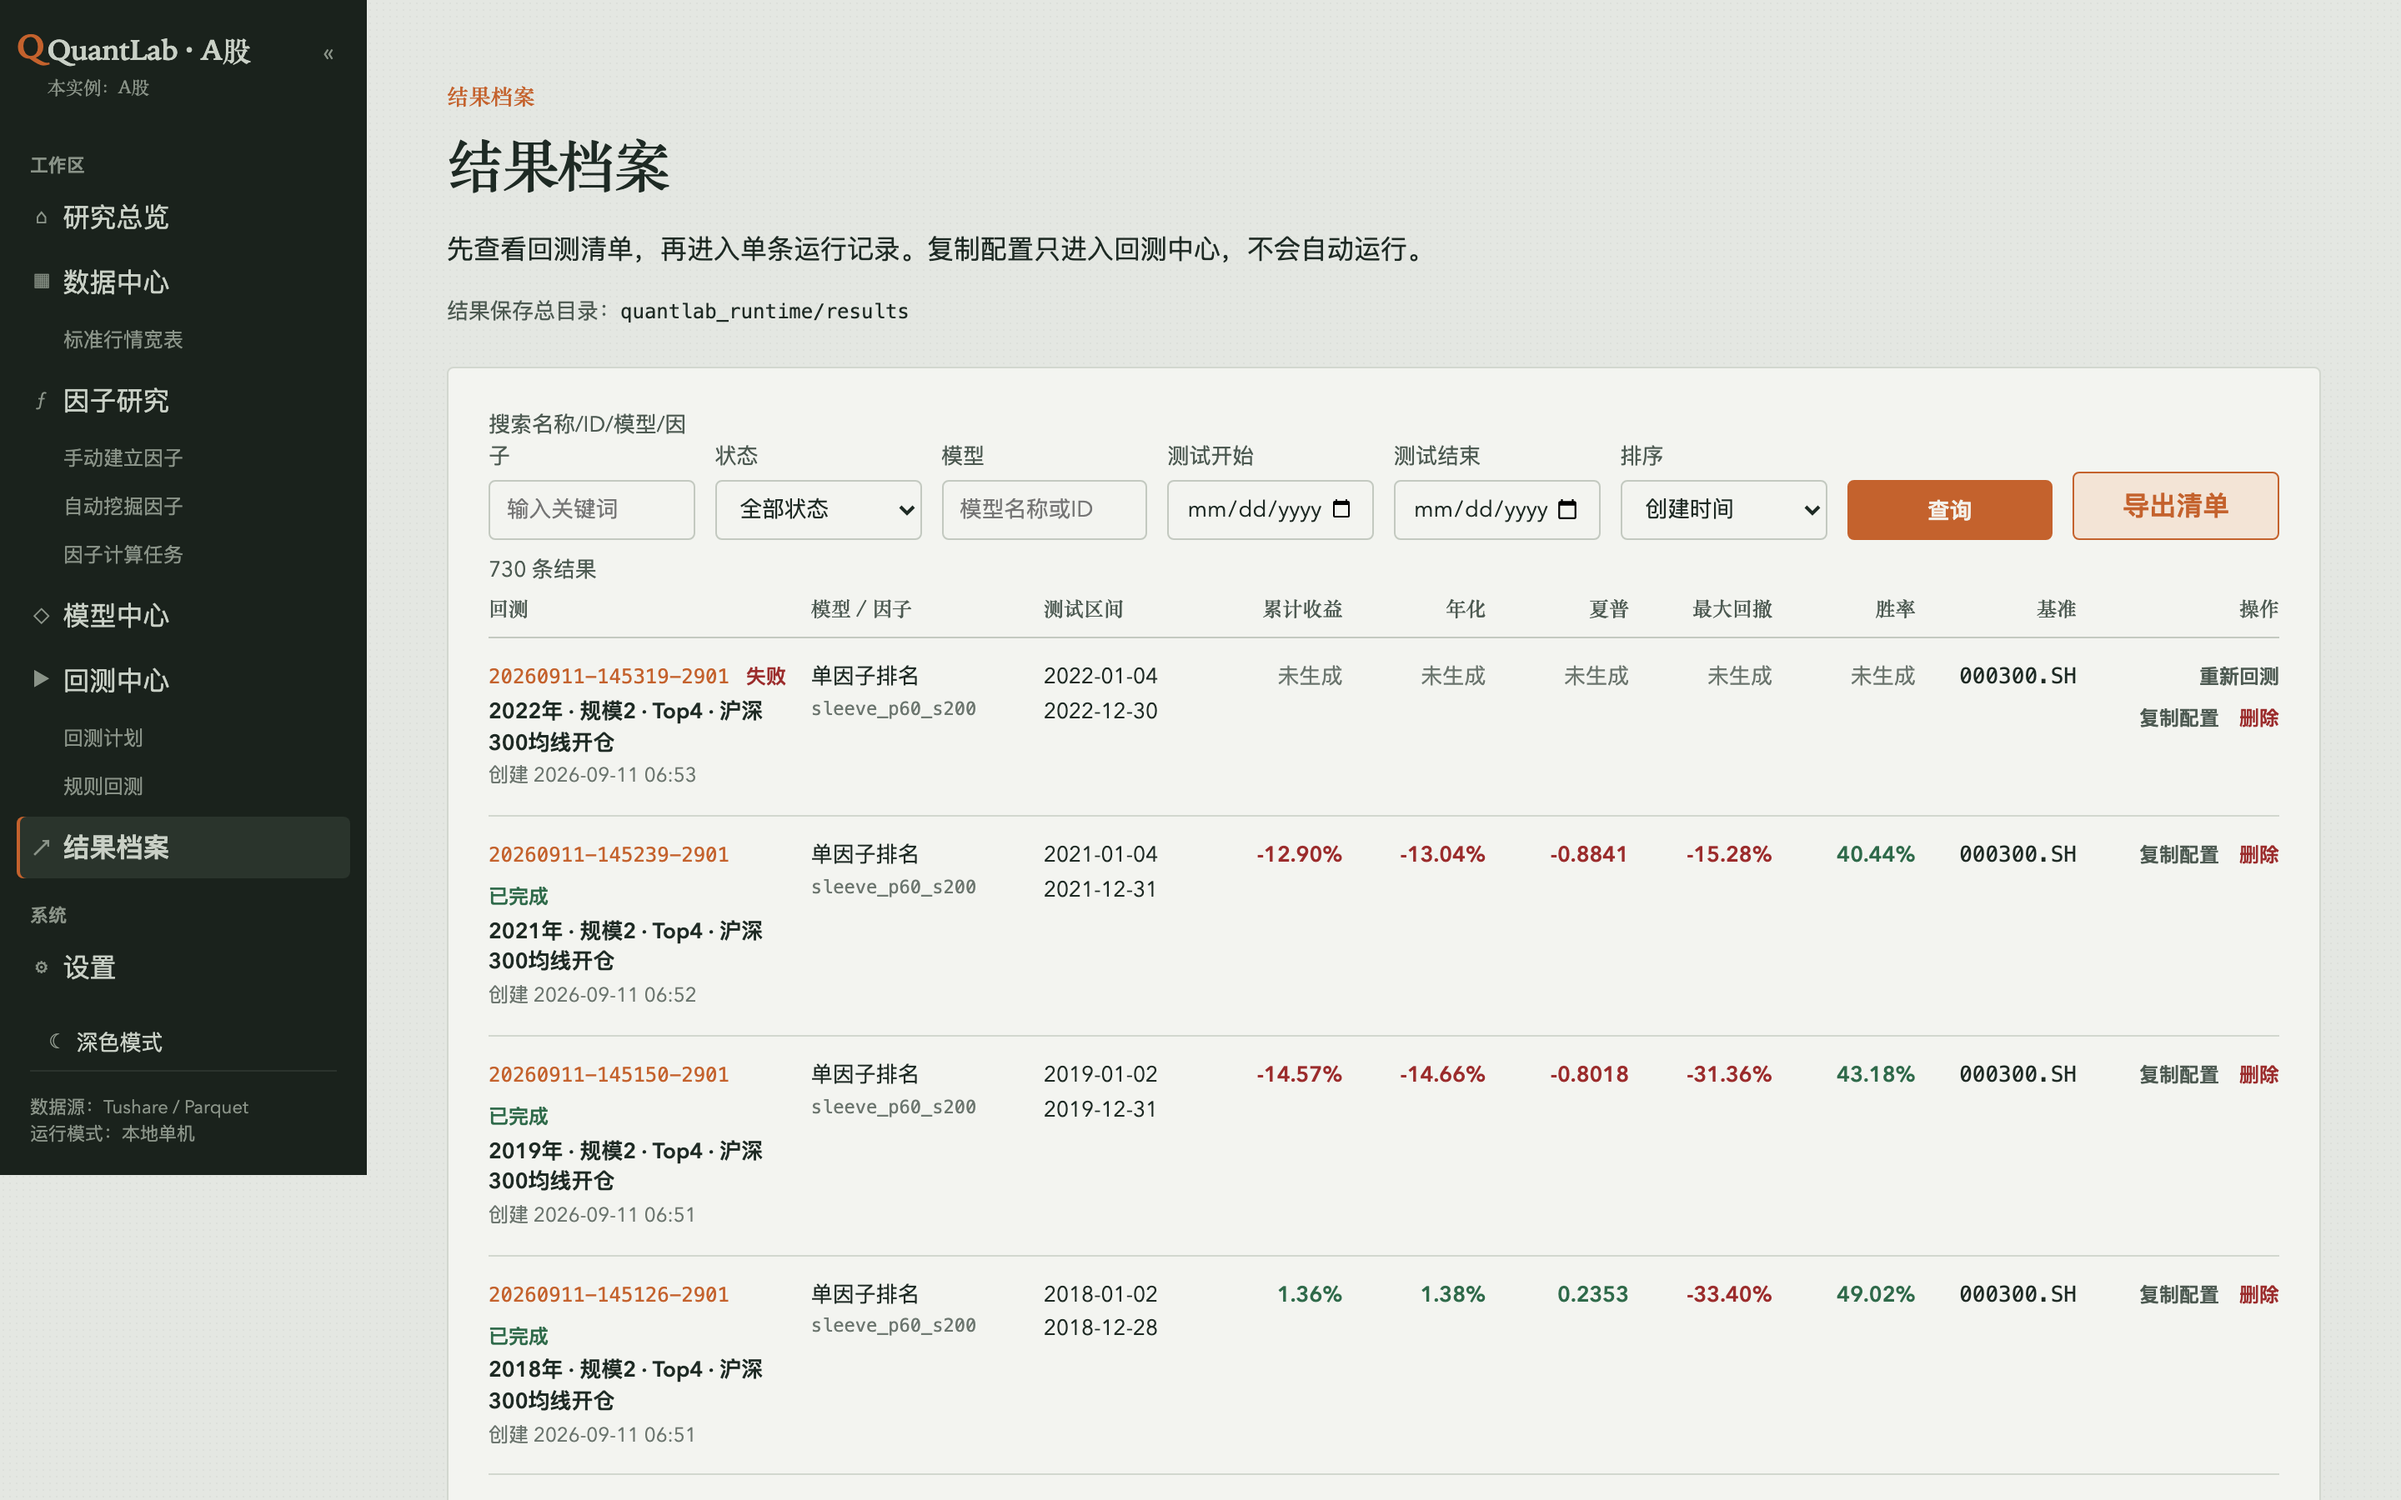
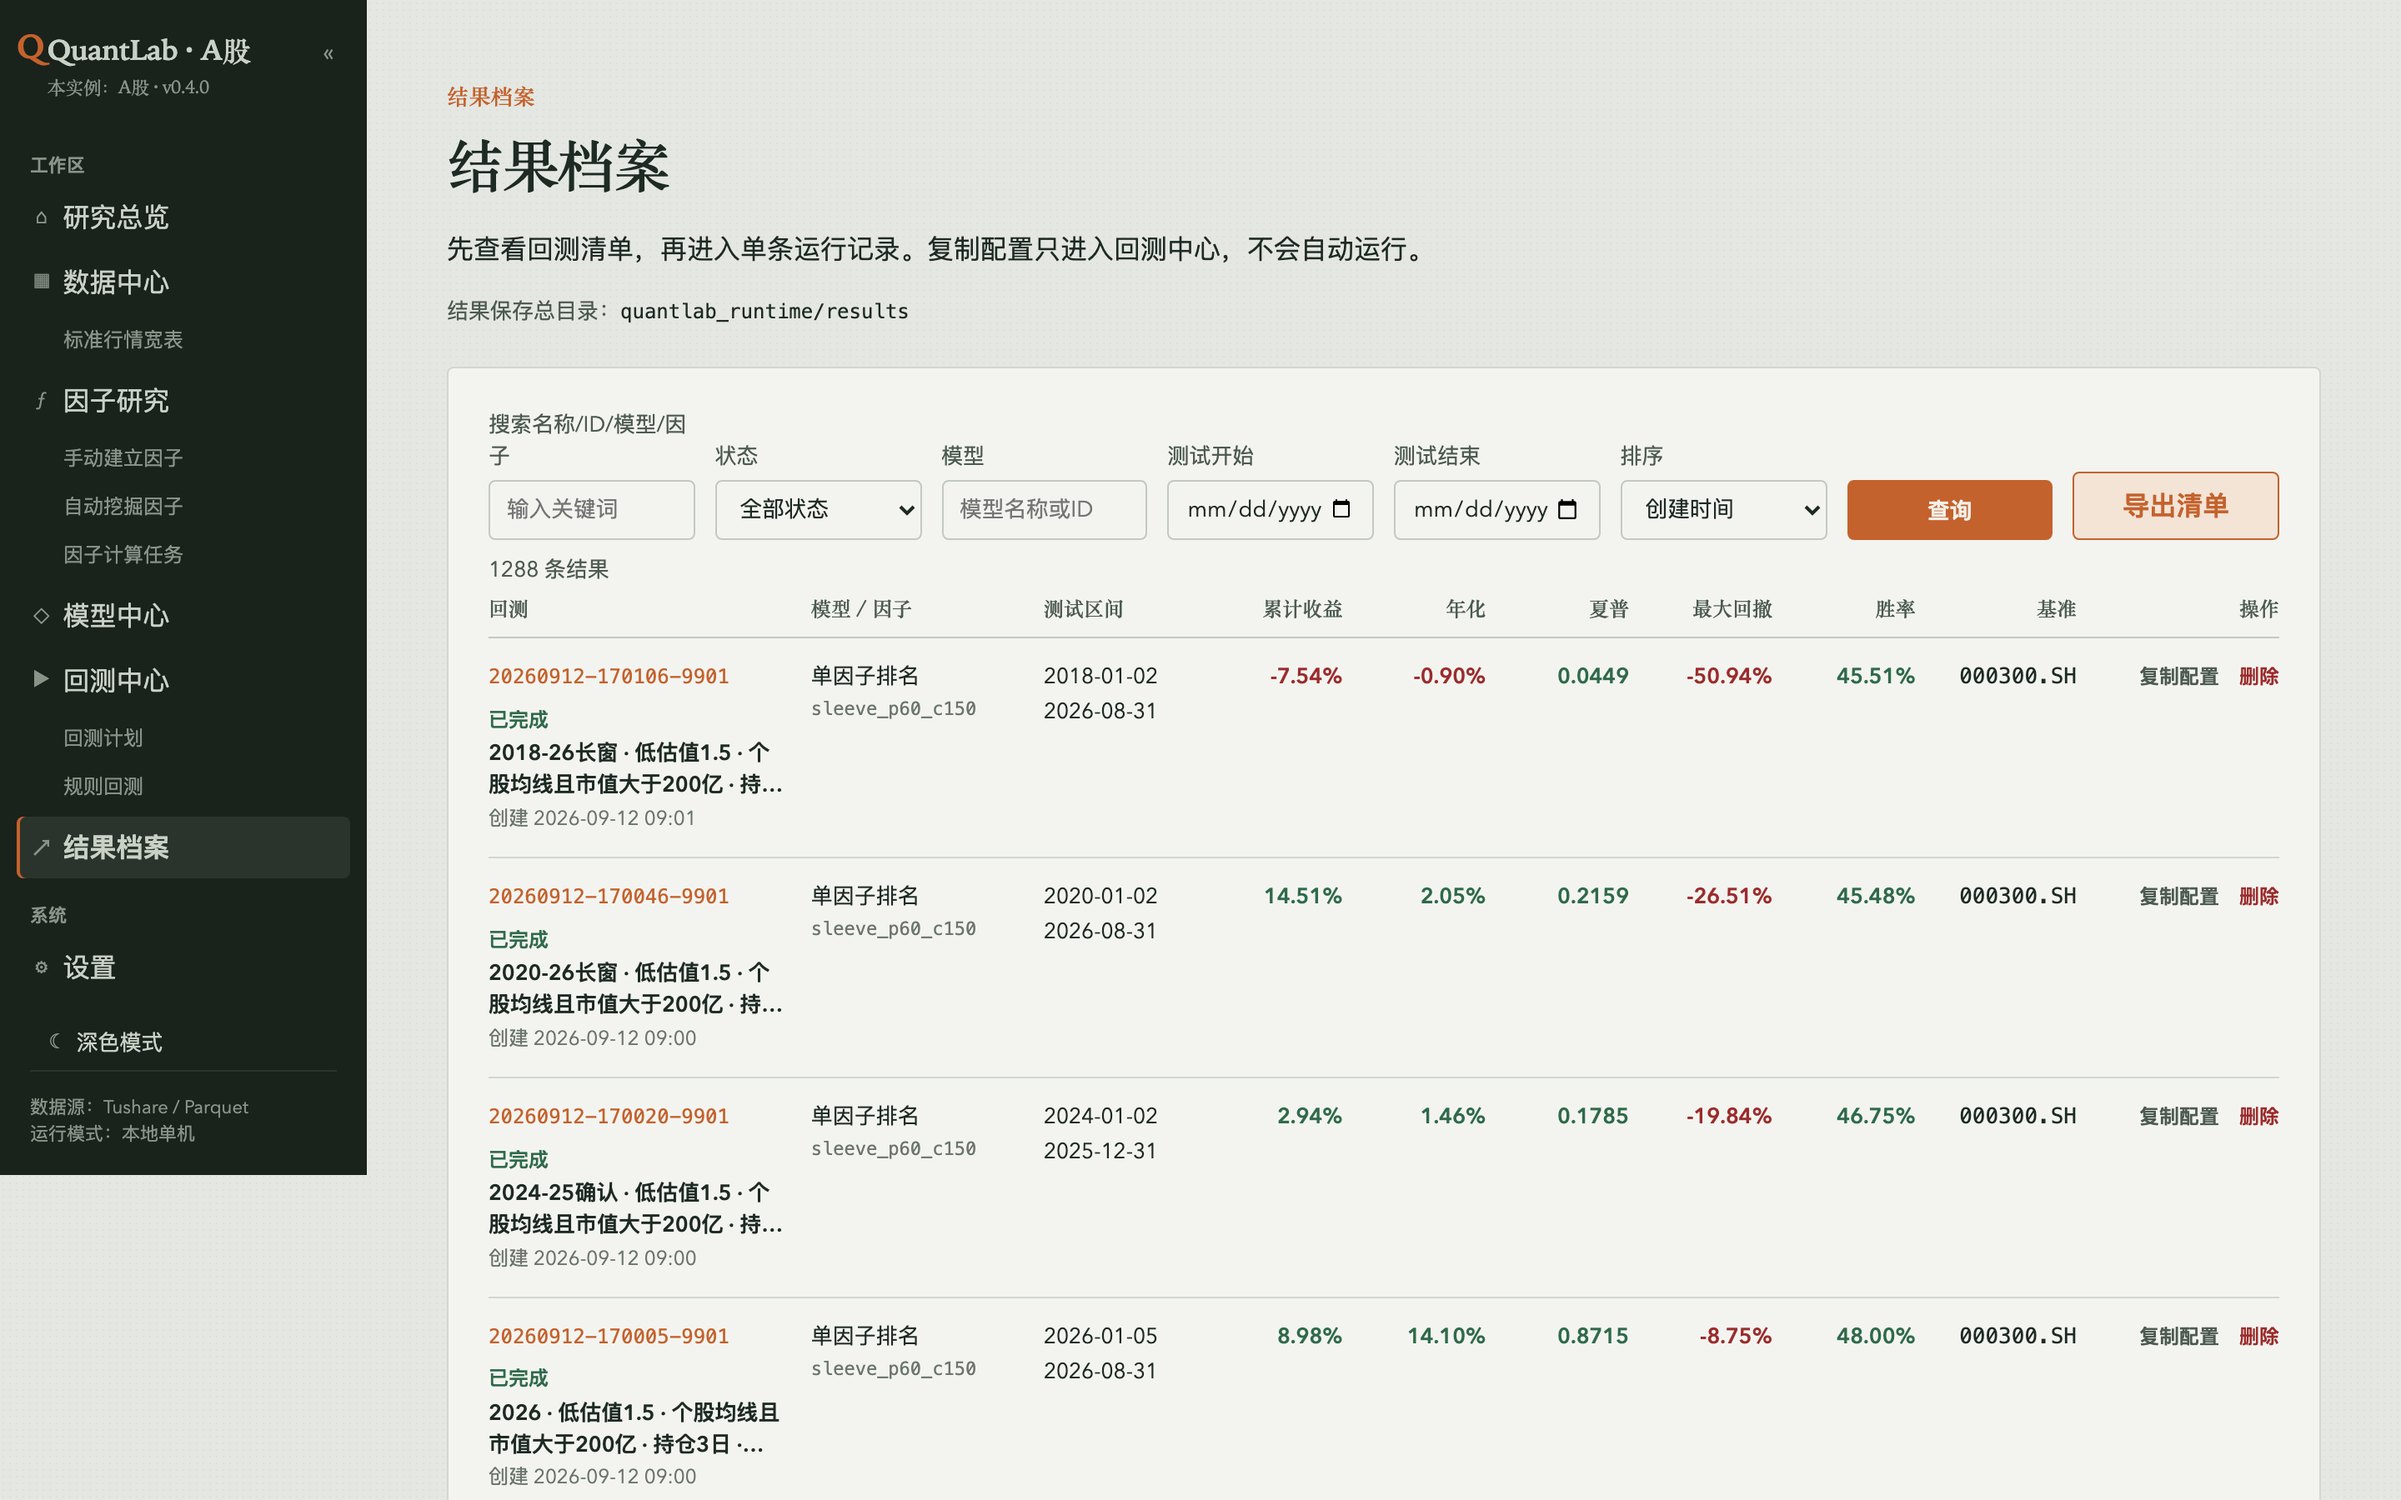
Rewrite the public briefing for QuantLab 0.4.0 and refresh screenshots.

diff --git a/ACCESS.md b/ACCESS.md
@@ -1,6 +1,6 @@
 # 仓库说明
 
-本仓库是 **公开的方案介绍**，任何人都可以打开链接阅读。里面只有介绍、界面截图和微信二维码，没有 QuantLab 源码、数据、Token 和回测产物。
+本仓库是 **公开的方案介绍**（当前产品版本 `0.4.0`），任何人都可以打开链接阅读。里面只有介绍、界面截图和微信二维码，没有 QuantLab 源码、数据、Token 和回测产物。
 
 源码仓库 `quantlab` 保持 **Private**。需要阅读代码时，由所有者另行邀请，默认只给 Read，不要给 Write：
 
